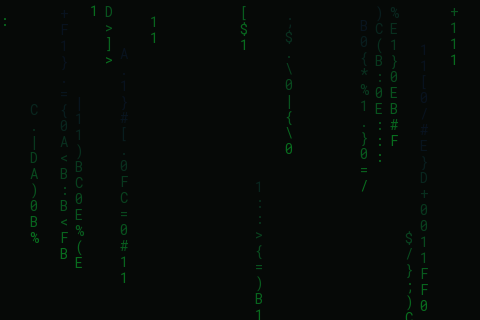
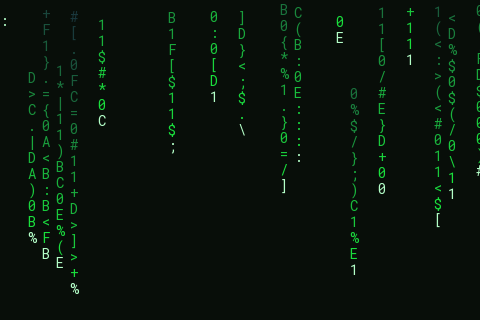
fix: без os._exit смърт, dynamic-only render (без насичане), по-светъл фон
- openSerial patch на ниво клас: RAISE вместо os._exit(0) при липсващ/зает порт.
  Това убиваше процеса с код 0 -> Task Scheduler не рестартираше -> вечен бял екран.
  Сега грешката се хваща от run.py и reconnect-ва; процесът не умира.
- draw_static() рисува фон+етикети ВЕДНЪЖ при connect; render() обновява само
  динамичните полета (фикс. ширина, без ghosting) -> край на насичането при всеки
  цикъл (преди преначертаваше целия 480x320 bitmap всеки път).
- по-светъл matrix фон (ярки глави, по-светла опашка).

diff --git a/display.py b/display.py
@@ -31,6 +31,27 @@ from library.lcd.lcd_comm_rev_a import LcdCommRevA, Orientation, SubRevision  # 
 import ccusage_client as cc  # noqa: E402
 import usage_client as uc  # noqa: E402
 
+
+def _safe_open_serial(self):
+    """Замества библиотечния openSerial: RAISE вместо os._exit(0).
+
+    Оригиналът прави os._exit(0) при липсващ/зает порт — НЕхванаемо, убива целия
+    процес, и то с код 0 (успех) -> Task Scheduler не рестартира. Това е причината
+    за "вечния бял екран" след дръпване. Тук хвърляме SerialException, за да я хване
+    run.py и да reconnect-не (процесът остава жив завинаги).
+    """
+    port = self.com_port
+    if port == "AUTO":
+        port = self.auto_detect_com_port()
+        if not port:
+            raise serial.SerialException("AUTO: дисплеят не е намерен")
+        self.com_port = port
+    self.lcd_serial = serial.Serial(self.com_port, 115200, timeout=1, rtscts=True)
+
+
+# Patch-ваме на ниво клас -> покрива и __init__, и Reset(), и всеки retry.
+LcdCommRevA.openSerial = _safe_open_serial
+
 # --- Hardware (виж README) ---
 # AUTO -> библиотеката намира устройството по VID/PID (USB35INCHIPSV2 / 1A86:5722),
 # та преживява смяна на COM номера при ново включване. Override с env при нужда.
@@ -112,7 +133,8 @@ def connect(port: str = COM_PORT) -> LcdCommRevA:
         time.sleep(2)
     lcd.SetBrightness(level=BRIGHTNESS)
     lcd.Clear()  # вътрешно връща PORTRAIT
-    lcd.SetOrientation(orientation=Orientation.LANDSCAPE)  # 480x320
+    lcd.SetOrientation(orientation=Orientation.REVERSE_LANDSCAPE)  # 480x320, обърнато 180°
+    draw_static(lcd)  # фон + статични етикети ВЕДНЪЖ (виж draw_static)
     return lcd
 
 
@@ -121,36 +143,48 @@ def _txt(lcd, text, x, y, size, color, bold=True):
                     font_color=color, background_image=BG_IMAGE)
 
 
-def _gauge(lcd: LcdCommRevA, y: int, label: str, pct, reset_txt: str) -> None:
+def draw_static(lcd: LcdCommRevA) -> None:
+    """Рисува фона + НЕпроменящите се елементи ВЕДНЪЖ (при connect/reconnect).
+
+    Така render() не преначертава целия екран всеки цикъл (което насича по serial) —
+    обновява само малките динамични полета.
+    """
+    lcd.DisplayBitmap(BG_IMAGE)
+    _txt(lcd, "CLAUDE USAGE", 12, 8, 26, WHITE)
+    _txt(lcd, "5H", 12, 58, 24, DIM)
+    _txt(lcd, "WK", 12, 140, 24, DIM)
+    _txt(lcd, "SESSION", 12, 224, 20, DIM)
+
+
+def _gauge(lcd: LcdCommRevA, y: int, pct, reset_txt: str) -> None:
+    """Динамичната част на gauge: %, reset, бар. Фиксирана ширина -> без ghosting."""
     has = pct is not None
     color = _bar_color(pct) if has else DIM
-    _txt(lcd, label, 12, y + 6, 24, DIM)
     _txt(lcd, f"{pct:>3.0f}%" if has else "  --", 64, y, 34, color)
-    _txt(lcd, f"resets {reset_txt}", 250, y + 10, 18, DIM, bold=False)
+    _txt(lcd, f"resets {reset_txt:<6}", 250, y + 10, 18, DIM, bold=False)
     lcd.DisplayProgressBar(12, y + 46, width=456, height=22, min_value=0, max_value=100,
                            value=int(min(100.0, max(0.0, pct))) if has else 0, bar_color=color,
                            bar_outline=True, background_image=BG_IMAGE)
 
 
 def render(lcd: LcdCommRevA, usage, snap) -> None:
-    """Рисува един кадър върху matrix фона. usage може да е None (-> '--')."""
-    lcd.DisplayBitmap(BG_IMAGE)
+    """Обновява само ДИНАМИЧНИТЕ полета (фонът/етикетите са от draw_static).
 
-    _txt(lcd, "CLAUDE USAGE", 12, 8, 26, WHITE)
-
+    usage може да е None (-> '--'). Всички полета са с фиксирана ширина, за да
+    презапишат старата стойност изцяло (иначе остатъци ghost-ват без пълен redraw).
+    """
     fh = usage.five_hour if usage else None
     wk = usage.seven_day if usage else None
-    _gauge(lcd, 52, "5H", fh.utilization if fh else None,
+    _gauge(lcd, 52, fh.utilization if fh else None,
            uc._fmt_delta(fh.remaining()) if fh else "--")
-    _gauge(lcd, 134, "WK", wk.utilization if wk else None,
+    _gauge(lcd, 134, wk.utilization if wk else None,
            uc._fmt_delta(wk.remaining()) if wk else "--")
 
     # --- SESSION (активен блок, от ccusage) ---
     block_cost = snap.block.cost_usd if snap and snap.block else 0.0
     block_tokens = snap.block.total_tokens if snap and snap.block else 0
-    _txt(lcd, "SESSION", 12, 224, 20, DIM)
     _txt(lcd, f"${block_cost:>6.2f}", 12, 252, 40, WHITE)
-    _txt(lcd, cc.format_tokens(block_tokens) + " tok", 250, 264, 28, WHITE)
+    _txt(lcd, f"{cc.format_tokens(block_tokens):>6} tok", 250, 264, 28, WHITE)
 
     today = snap.daily.today_cost if snap else 0.0
     _txt(lcd, f"today ${today:>6.2f}", 12, 300, 16, DIM, bold=False)

diff --git a/tools/gen_background.py b/tools/gen_background.py
@@ -29,19 +29,22 @@ CODE_LINES = [
 
 
 def matrix() -> Image.Image:
-    img = Image.new("RGB", (W, H), (6, 9, 7))
+    img = Image.new("RGB", (W, H), (8, 14, 9))
     d = ImageDraw.Draw(img)
     f = ImageFont.truetype(FONT_PATH, 14)
-    step = 15
+    step = 14
     for x in range(0, W, step):
         head = random.randint(-H, H)
-        length = random.randint(6, 22)
+        length = random.randint(8, 26)
         for k in range(length):
             y = head - k * 16
             if 0 <= y < H:
-                # head по-ярко, опашката избледнява (но цялото е тъмно)
-                g = max(18, 110 - k * 9)
-                d.text((x, y), random.choice(GLYPHS), font=f, fill=(8, g, 30))
+                ch = random.choice(GLYPHS)
+                if k == 0:
+                    d.text((x, y), ch, font=f, fill=(180, 255, 200))  # ярка глава
+                else:
+                    g = max(55, 235 - k * 11)  # по-светла опашка
+                    d.text((x, y), ch, font=f, fill=(25, g, 60))
     return img
 
 